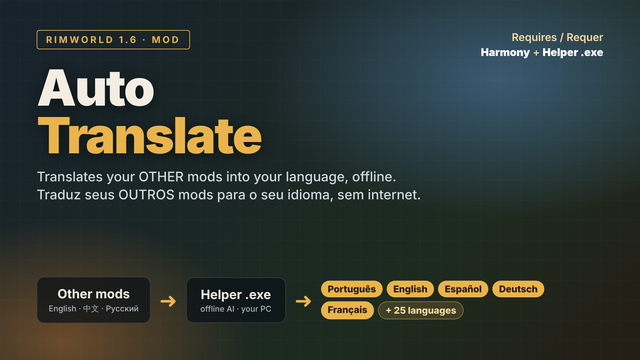
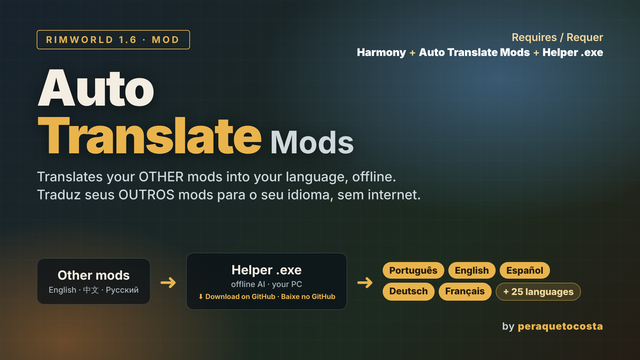
v0.015: capa do mod com título, autor e requisitos
- Alterado: capa do mod para a Steam: título "Auto Translate Mods", autor "peraquetocosta", requisitos (Harmony, Auto Translate Mods e Helper .exe) e a mensagem "Baixe no GitHub" centralizada no quadro do programa.

diff --git a/assets/cover.html b/assets/cover.html
@@ -7,25 +7,27 @@ background:radial-gradient(1200px 700px at 78% 22%,#3a5a73 0%,rgba(58,90,115,0) 
 .tag{display:inline-block;font-size:28px;letter-spacing:.22em;text-transform:uppercase;color:#e9b44c;border:2px solid #e9b44c;padding:10px 26px;border-radius:8px;font-weight:700}
 h1{font-size:150px;line-height:.95;font-weight:900;letter-spacing:-.03em;margin-top:44px;text-shadow:0 8px 40px rgba(0,0,0,.45)}
 h1 span{color:#e9b44c}
+h1 em{font-style:normal;font-weight:700;color:#cfd8dc;font-size:.62em;letter-spacing:0}
 .sub{font-size:40px;margin-top:26px;color:#cfd8dc;font-weight:500;line-height:1.35;white-space:nowrap}
-.flow{position:absolute;left:0;right:0;bottom:20px;display:flex;align-items:center;gap:26px}
-.box{background:rgba(10,16,22,.72);border:2px solid rgba(255,255,255,.16);border-radius:22px;padding:26px 34px;font-size:38px;font-weight:700;min-width:300px;text-align:center}
+.flow{position:absolute;left:0;right:0;bottom:60px;display:flex;align-items:center;gap:26px}
+.box{flex-shrink:0;background:rgba(10,16,22,.72);border:2px solid rgba(255,255,255,.16);border-radius:22px;padding:26px 34px;font-size:38px;font-weight:700;min-width:300px;text-align:center}
 .box small{display:block;white-space:nowrap;font-size:24px;font-weight:500;color:#aab6bd;margin-top:6px}
 .arrow{font-size:64px;color:#e9b44c;font-weight:900}
-.langs{display:flex;flex-wrap:wrap;gap:12px;width:760px}
+.langs{display:flex;flex-wrap:wrap;gap:12px;width:700px;flex-shrink:1}
 .chip{background:#e9b44c;color:#241a0c;font-weight:800;font-size:28px;padding:8px 20px;border-radius:40px}
 .chip.alt{background:rgba(233,180,76,.16);color:#f3d9a0;border:2px solid rgba(233,180,76,.5)}
+.author{position:absolute;right:0;bottom:-6px;font-size:30px;color:#cfd8dc;font-weight:600;letter-spacing:.04em}.author b{color:#e9b44c}
 .need{position:absolute;right:0;top:0;text-align:right;font-size:32px;color:#f3d9a0;line-height:1.4;font-weight:600}
 .need b{color:#fff}
 </style></head><body><div class="grid"></div><div class="wrap">
 <div class="tag">RimWorld 1.6 · Mod</div>
-<h1>Auto<br><span>Translate</span></h1>
+<h1>Auto<br><span>Translate</span> <em>Mods</em></h1>
 <div class="sub">Translates your OTHER mods into your language, offline.<br>Traduz seus OUTROS mods para o seu idioma, sem internet.</div>
-<div class="need">Requires / Requer<br><b>Harmony</b> + <b>Helper .exe</b></div>
+<div class="need">Requires / Requer<br><b>Harmony</b> + <b>Auto Translate Mods</b> + <b>Helper .exe</b></div>
 <div class="flow">
 <div class="box">Other mods<small>English · 中文 · Русский</small></div>
 <div class="arrow">➜</div>
-<div class="box">Helper .exe<small>offline AI · your PC</small></div>
+<div class="box">Helper .exe<small>offline AI · your PC</small><small style="color:#e9b44c;font-weight:700;margin-top:10px;font-size:21px">⬇ Download on GitHub · Baixe no GitHub</small></div>
 <div class="arrow">➜</div>
 <div class="langs"><span class="chip">Português</span><span class="chip">English</span><span class="chip">Español</span><span class="chip">Deutsch</span><span class="chip">Français</span><span class="chip alt">+ 25 languages</span></div>
-</div></div></body></html>
+</div><div class="author">by <b>peraquetocosta</b></div></div></body></html>

diff --git a/helper/rwtranslate/__init__.py b/helper/rwtranslate/__init__.py
@@ -1,1 +1,1 @@
-__version__ = "0.014.0"
+__version__ = "0.015.0"

diff --git a/README.md b/README.md
@@ -10,12 +10,12 @@
 
 <div align="justify">
 
-**Versão atual: 0.014** · [Baixar na aba Releases](../../releases/latest)
+**Versão atual: 0.015** · [Baixar na aba Releases](../../releases/latest)
 
 Traduz **automaticamente** os outros mods do seu jogo para o seu idioma, **sem precisar de um mod de tradução para cada mod**.
 A tradução é feita **no seu computador, sem internet e de graça**. Cada tradução fica salva, então ela só é feita uma vez.
 
-> **Em desenvolvimento.** Este projeto foi feito com a ajuda do **Claude** (IA da Anthropic) e ainda está em fase inicial (versão atual 0.014). Veja "Estado atual" abaixo.
+> **Em desenvolvimento.** Este projeto foi feito com a ajuda do **Claude** (IA da Anthropic) e ainda está em fase inicial (versão atual 0.015). Veja "Estado atual" abaixo.
 
 <h2 align="left">Compatibilidade</h2>
 
@@ -122,7 +122,7 @@ Com o **modo desenvolvedor** do RimWorld ligado, o próprio jogo marca os textos
 
 <h2 align="left">Estado atual (transparência)</h2>
 
-Esta é uma **versão inicial** (versão atual 0.014), feita com a ajuda do Claude. O mod compila contra a API do RimWorld 1.6 e o código passou nos testes automáticos (inclusive o teste da janela do executável no Windows do GitHub), mas **ainda não foi testado a fundo dentro do RimWorld** nem com muitos mods reais. Podem aparecer erros, principalmente com mods que mexem nos mesmos textos. **A tradução automática não é 100% perfeita**, mas é bem melhor do que jogar com um mod que não está no seu idioma. **Se você encontrar qualquer erro, por favor reporte** (veja "Deu problema ou conflito com um mod?" abaixo): isso ajuda a melhorar o projeto para todo mundo.
+Esta é uma **versão inicial** (versão atual 0.015), feita com a ajuda do Claude. O mod compila contra a API do RimWorld 1.6 e o código passou nos testes automáticos (inclusive o teste da janela do executável no Windows do GitHub), mas **ainda não foi testado a fundo dentro do RimWorld** nem com muitos mods reais. Podem aparecer erros, principalmente com mods que mexem nos mesmos textos. **A tradução automática não é 100% perfeita**, mas é bem melhor do que jogar com um mod que não está no seu idioma. **Se você encontrar qualquer erro, por favor reporte** (veja "Deu problema ou conflito com um mod?" abaixo): isso ajuda a melhorar o projeto para todo mundo.
 
 <h2 align="left">Deu problema ou conflito com um mod?</h2>
 

diff --git a/README.en.md b/README.en.md
@@ -10,12 +10,12 @@
 
 <div align="justify">
 
-**Current version: 0.014** · [Download from the Releases tab](../../releases/latest)
+**Current version: 0.015** · [Download from the Releases tab](../../releases/latest)
 
 Translates the other mods in your game into your language **automatically**, **without needing a translation mod for each mod**.
 The translation runs **on your computer, offline and for free**. Every translation is saved, so it is only done once.
 
-> **Under development.** This project was made with the help of **Claude** (Anthropic's AI) and is still at an early stage (current version 0.014). See "Current status" below.
+> **Under development.** This project was made with the help of **Claude** (Anthropic's AI) and is still at an early stage (current version 0.015). See "Current status" below.
 
 <h2 align="left">Compatibility</h2>
 
@@ -122,7 +122,7 @@ With RimWorld's **developer mode** on, the game itself marks the texts that have
 
 <h2 align="left">Current status (transparency)</h2>
 
-This is an **early version** (current version 0.014), made with the help of Claude. The mod compiles against the RimWorld 1.6 API and the code passed the automated tests (including the executable's window test on GitHub's Windows), but it **has not yet been tested in depth inside RimWorld** nor with many real mods. Errors may appear, mainly with mods that touch the same texts. **Automatic translation is not 100% perfect**, but it is much better than playing with a mod that is not in your language. **If you find any mistake, please report it** (see "Problem or conflict with a mod?" below): it helps improve the project for everyone.
+This is an **early version** (current version 0.015), made with the help of Claude. The mod compiles against the RimWorld 1.6 API and the code passed the automated tests (including the executable's window test on GitHub's Windows), but it **has not yet been tested in depth inside RimWorld** nor with many real mods. Errors may appear, mainly with mods that touch the same texts. **Automatic translation is not 100% perfect**, but it is much better than playing with a mod that is not in your language. **If you find any mistake, please report it** (see "Problem or conflict with a mod?" below): it helps improve the project for everyone.
 
 <h2 align="left">Problem or conflict with a mod?</h2>
 

diff --git a/CHANGELOG.md b/CHANGELOG.md
@@ -4,6 +4,9 @@ Versioning: `0.NNN` (0.001, 0.002, ...) until the maintainer declares 1.0. **Eve
 (newest first). The same text goes in the commit message: `v0.NNN: short title` + list of changes.
 Version lives in `VERSION`; run `python tools/set_version.py` to sync it into the helper and the mod.
 
+## v0.015 - 2026-10-14
+- Alterado: capa do mod para a Steam: título "Auto Translate Mods", autor "peraquetocosta", requisitos (Harmony, Auto Translate Mods e Helper .exe) e a mensagem "Baixe no GitHub" centralizada no quadro do programa.
+
 ## v0.014 - 2026-10-14
 - Adicionado: capa do mod para a Steam (pasta assets): imagem de 1920x1080, versão pequena de 640x360 e o arquivo cover.html para editar o texto e as cores.
 
